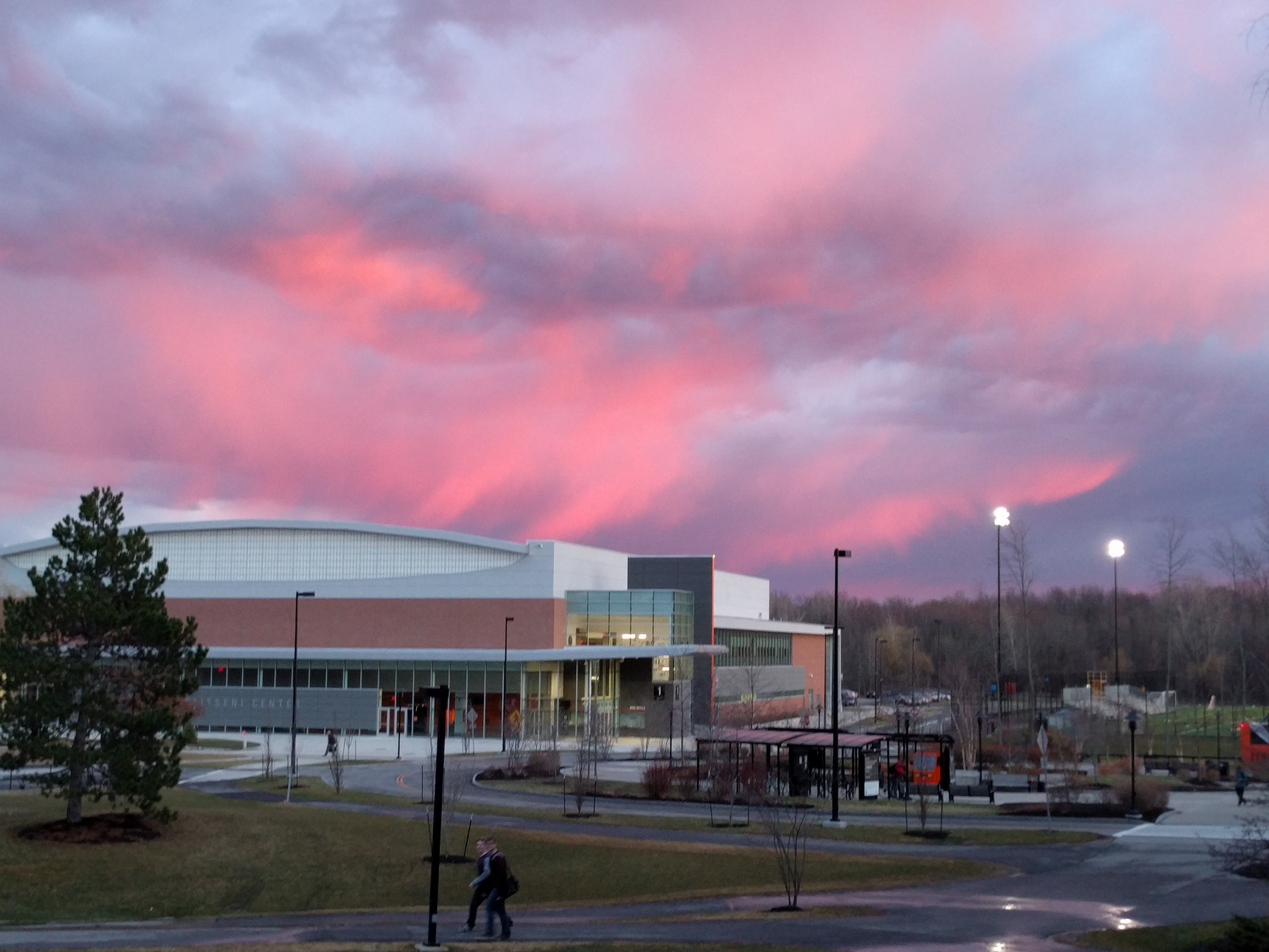
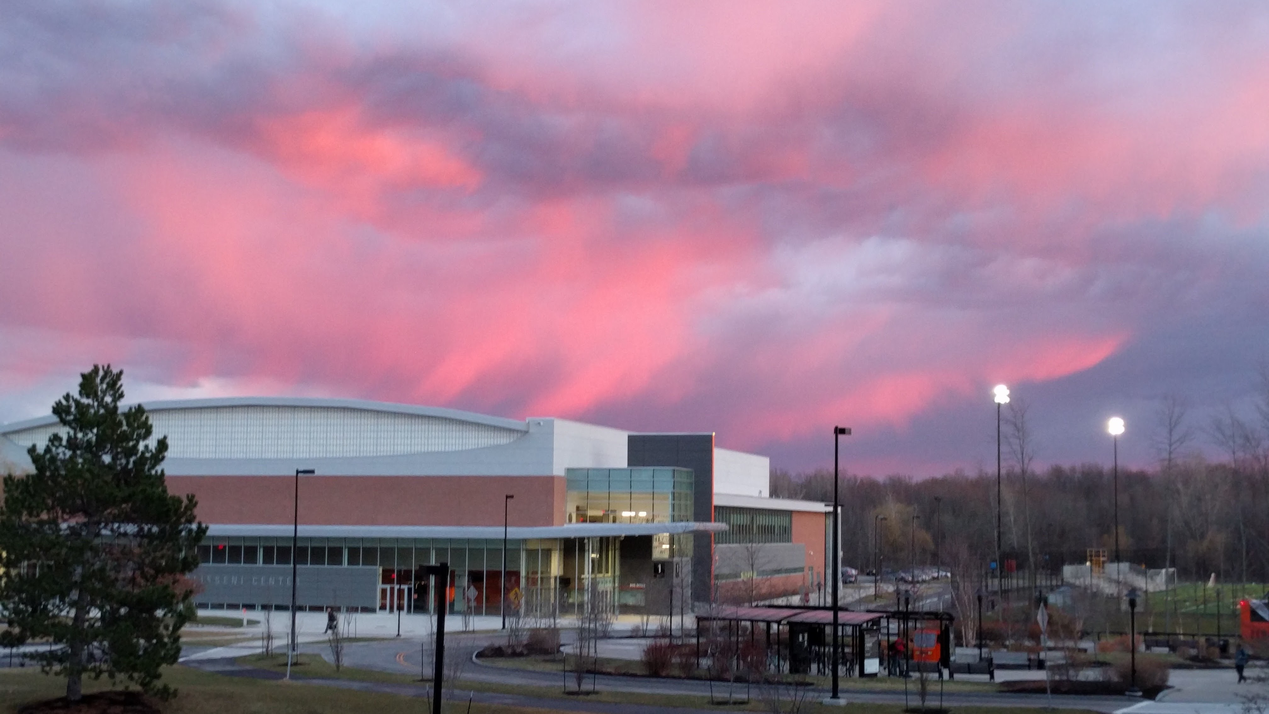
Added teplate for footer.

diff --git a/src/App.js b/src/App.js
@@ -27,9 +27,14 @@ export default class App extends Component {
                                 <Route path={"/Publications"} component={Publications}/>
                                 <Route path={"/WorkHistory"} component={WorkHistory}/>
                             </div>
-                            {/* <div class="d-flex flex-column">
+                            <div class="d-flex flex-column">
                                 <footer class="footer">
                                     <Container>
+                                        <Row>
+                                            <Col>
+                                                <h1>Site map</h1>
+                                            </Col>
+                                        </Row>
                                         <Row>
                                             <Col>
                                                 <p>Col 1</p>
@@ -44,9 +49,29 @@ export default class App extends Component {
                                                 <p>Col 1</p>
                                             </Col>
                                         </Row>
+                                        <Row>
+                                            <Col>
+                                                <p>Social media Links</p>
+                                            </Col>
+                                        </Row>
+                                        <Row>
+                                            <Col>
+                                                <h1>Dave Whitman-Kinghorn</h1>
+                                            </Col>
+                                        </Row>
+                                        {/* <Row>
+                                            <Col>
+                                                <p>Copyright 2021 David Whitman-Kinghorn</p>
+                                            </Col>
+                                        </Row> */}
+                                        <Row>
+                                            <Col>
+                                                <p>Credits</p>
+                                            </Col>
+                                        </Row>
                                     </Container>
                                 </footer>
-                            </div> */}
+                            </div>
                         </div>
                     </Router>
                 </IconContext.Provider>

diff --git a/src/pages/HomePage.js b/src/pages/HomePage.js
@@ -30,8 +30,8 @@ const HomeCarousel = () => (
                 <img
                     className="d-block w-100"
                     id="carousel-image"
-                    src={process.env.PUBLIC_URL + '/assets/images/london.jpg'}
-                    alt="London Cityscape at night."
+                    src={process.env.PUBLIC_URL + '/assets/images/my-photos/20150730_125815_Richtone(HDR).jpg'}
+                    alt="Greater London area countryside from the air."
                 />
                 <Carousel.Caption>
                     <h3 className="carousel-caption-h3">Born</h3>
@@ -42,20 +42,20 @@ const HomeCarousel = () => (
                 <img
                     className="d-block w-100"
                     id="carousel-image"
-                    src={process.env.PUBLIC_URL + '/assets/images/lexington1.jpg'}
-                    alt="Lexington Massachusetts Depot Square."
+                    src={process.env.PUBLIC_URL + '/assets/images/my-photos/20131106_155432.jpg'}
+                    alt="Autum rooftop from the deCordova Sculpture Park Museum."
                 />
                 <Carousel.Caption>
                     <h3 className="carousel-caption-h3">Raised</h3>
-                    <p className="carousel-caption-p">in Lexington Massachusetts.</p>
+                    <p className="carousel-caption-p">in Massachusetts.</p>
                 </Carousel.Caption>
             </Carousel.Item>
             <Carousel.Item>
                 <img
                     className="d-block w-100"
                     id="carousel-image"
-                    src={process.env.PUBLIC_URL + '/assets/images/rit.jpg'}
-                    alt="Rochester Institute of Technology"
+                    src={process.env.PUBLIC_URL + '/assets/images/my-photos/IMG_20160316_192059.jpg'}
+                    alt="Rochester Institute of Technology Gene Polisseni Center at sunset"
                 />
                 <Carousel.Caption className="carousel-caption">
                     <h3 className="carousel-caption-h3">Studied</h3>
